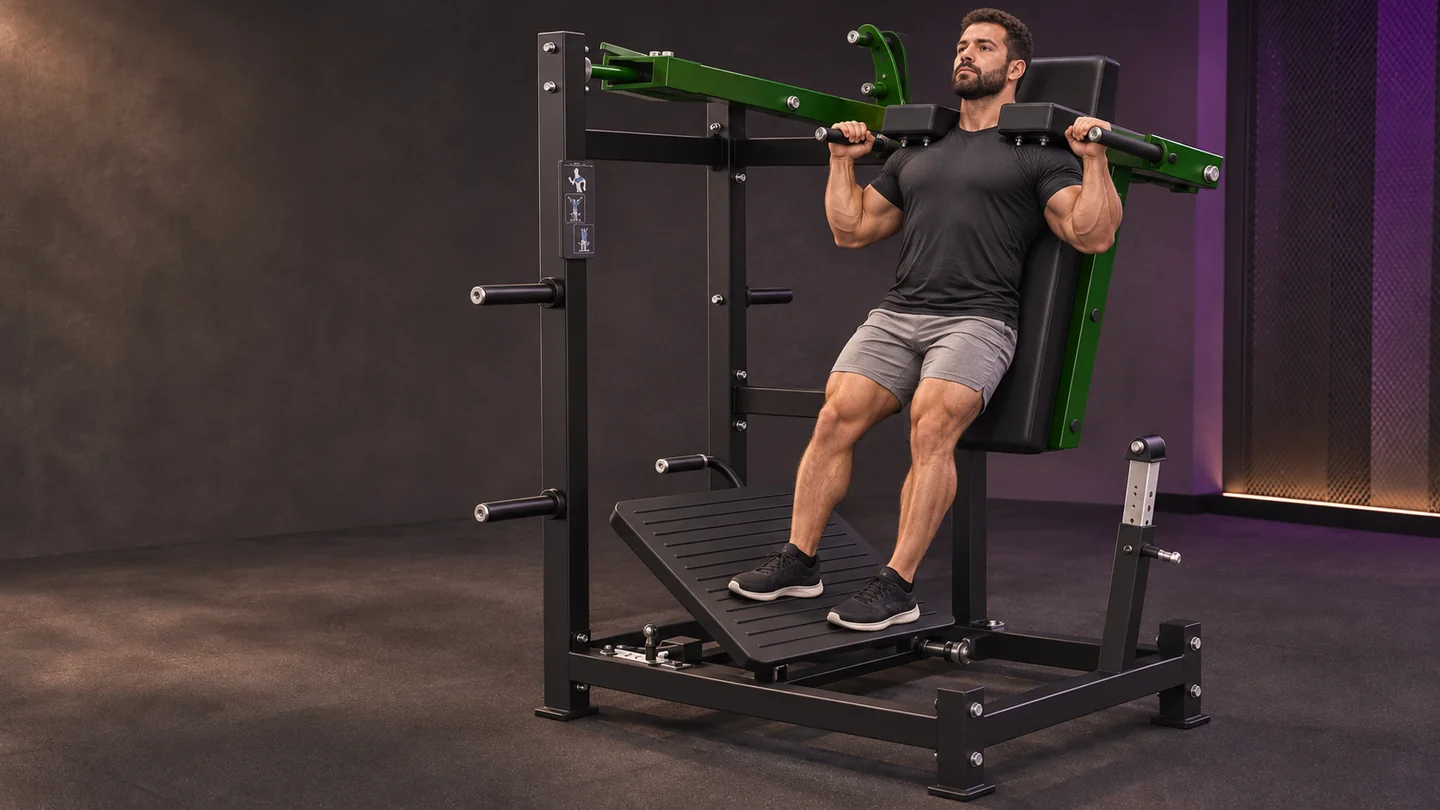
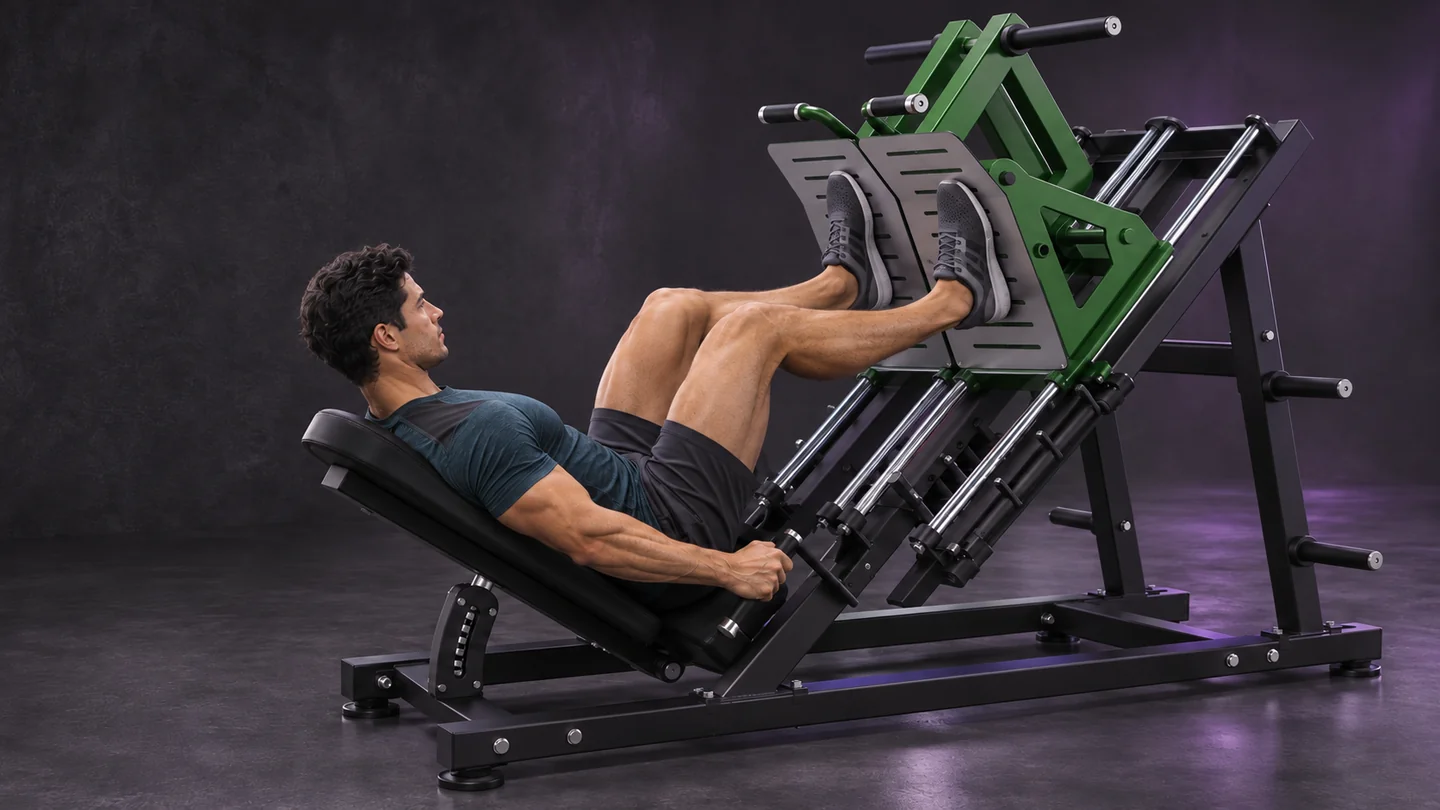
Atualiza as capas da A9 com o leg press A956 de duas plataformas

diff --git a/js/site.js b/js/site.js
@@ -231,12 +231,12 @@
   }
   function countSerie(s) { return PRODUCTS.filter(p => (p.serie || 'Geral') === s).length; }
 
-  const seriesImageVersion = '20261122d';
+  const seriesImageVersion = slug => slug === 'a9-series' ? '20261122e' : '20261122d';
   const seriesTrainingDescriptions = new Map([
     ['a5-series', 'Atleta fazendo desenvolvimento de ombros no A503'],
     ['a7-series', 'Atleta fazendo remada baixa no A704'],
     ['a8-series', 'Atleta fazendo uma puxada no A802'],
-    ['a9-series', 'Atleta fazendo agachamento pendular no A946'],
+    ['a9-series', 'Atleta fazendo leg press com um pé em cada plataforma do A956'],
     ['cardio', 'Atleta caminhando na esteira T13'],
     ['hm-series', 'Atleta fazendo crucifixo sentado no HM04'],
     ['hy-series', 'Atleta realizando uma série no leg press HY56'],
@@ -267,7 +267,7 @@
     $('#seriesGrid').innerHTML = series().map(s => {
       const slug = coveredSeriesSlug(s);
       const cover = slug
-        ? `<img class="scard__cover" src="assets/series/${slug}.webp?v=${seriesImageVersion}" alt="" width="960" height="512" loading="lazy" decoding="async">`
+        ? `<img class="scard__cover" src="assets/series/${slug}.webp?v=${seriesImageVersion(slug)}" alt="" width="960" height="512" loading="lazy" decoding="async">`
         : '';
       return `<button type="button" class="scard ${filterSerie === s ? 'active' : ''}" data-serie="${esc(s)}" aria-pressed="${filterSerie === s}">${cover}<b>${esc(s)}</b><span>${countSerie(s)} itens</span></button>`;
     }).join('');
@@ -770,7 +770,7 @@
     b.classList.toggle('catbanner--training', Boolean(showTraining));
     b.style.backgroundImage = showCustom ? `linear-gradient(to top, rgba(11,11,15,.86), rgba(11,11,15,.45)), url("${img}")` : '';
     b.innerHTML = `
-      ${showTraining ? `<img class="catbanner__training-image" src="assets/series-training/${slug}.webp?v=${seriesImageVersion}" width="1440" height="810" alt="${seriesTrainingDescriptions.get(slug)}, da linha ${esc(nome)}." fetchpriority="high">` : ''}
+      ${showTraining ? `<img class="catbanner__training-image" src="assets/series-training/${slug}.webp?v=${seriesImageVersion(slug)}" width="1440" height="810" alt="${seriesTrainingDescriptions.get(slug)}, da linha ${esc(nome)}." fetchpriority="high">` : ''}
       ${!showCustom && !showTraining ? `<div class="catbanner__bg" aria-hidden="true">${plate}</div>` : ''}
       <div class="catbanner__inner">
         <nav class="catbanner__crumb"><a href="${BASE_URL}" data-serie="all">Início</a><span>›</span><b>${esc(nome)}</b></nav>

diff --git a/index.html b/index.html
@@ -489,7 +489,7 @@
   <script src="js/products.js?v=20260718d"></script>
   <script src="js/nomes.js?v=20260718d"></script>
   <script src="js/descricoes.js?v=20260718d"></script>
-  <script src="js/site.js?v=20261122d"></script>
+  <script src="js/site.js?v=20261122e"></script>
   <script src="js/premium.js?v=20260905" defer></script>
   <noscript><p class="tf-noscript">Ative o JavaScript para buscar equipamentos e montar seu orçamento. As informações da marca continuam disponíveis na página <a href="sobre.html">Sobre a Torque Fitness</a>.</p></noscript>
 </body>

diff --git a/sw.js b/sw.js
@@ -12,7 +12,7 @@ const SHELL = [
   './css/site.css?v=20260718d',
   './css/premium.css?v=20261122b',
   './js/premium.js?v=20260905',
-  './js/site.js?v=20261122d',
+  './js/site.js?v=20261122e',
   './js/config.js?v=20260718d',
   './js/products.js?v=20260718d',
   './js/nomes.js?v=20260718d',
